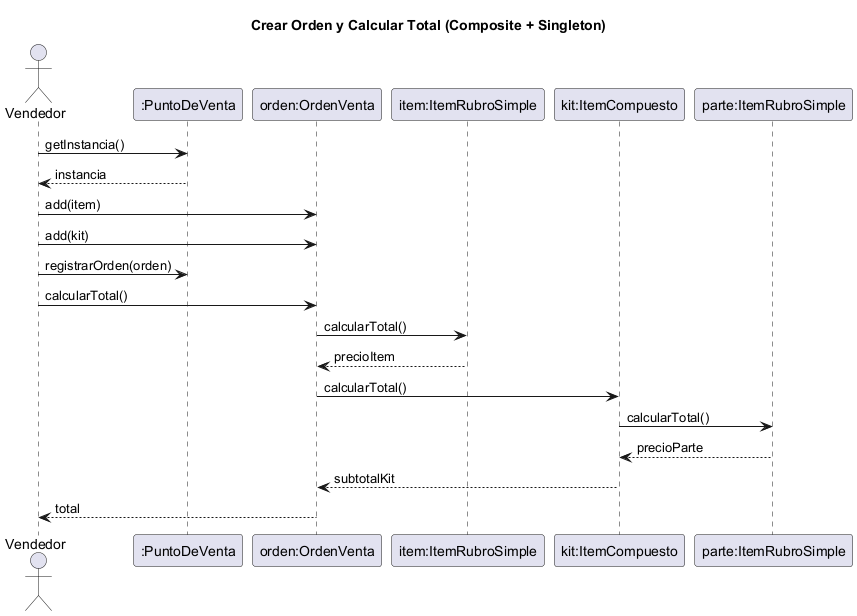
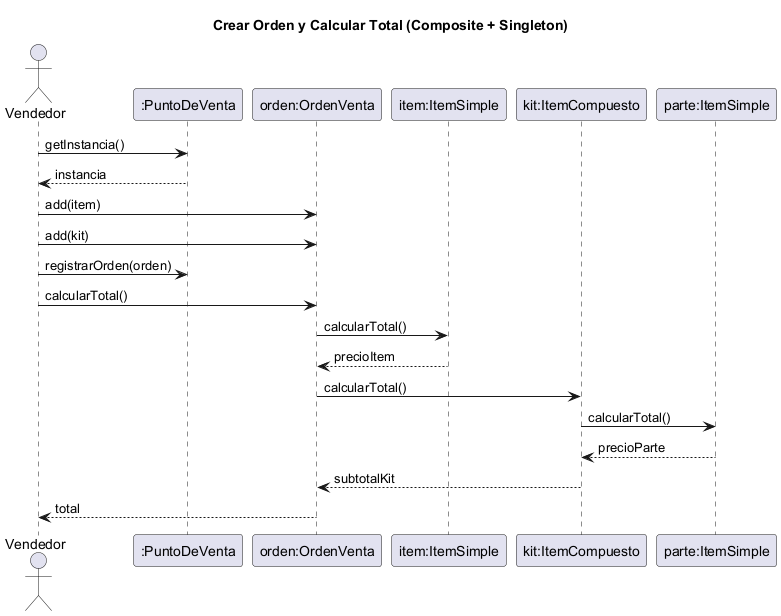
refactor(uml): simplificar Composite segun feedback (ItemRubroSimple->ItemSimple; quitar PrecioProducto, Seguro y descuento por item)

diff --git a/docs/entrega/02-patrones.md b/docs/entrega/02-patrones.md
@@ -17,10 +17,10 @@ Permite que el cliente trate de manera uniforme tanto objetos individuales como 
 la misma interfaz para ambos.
 
 **3. Motivación:** un vendedor necesita calcular el total de una orden que puede contener ítems simples
-(un producto con precio fijo, seguro opcional y descuento) y también ítems compuestos (kits que agrupan
-productos y que a su vez pueden contener sub-ítems). El código del vendedor calcula el total sin saber
-si trata con un ítem simple o con un conjunto anidado. El Composite define la interfaz común `ItemVenta`
-con `calcularTotal()`; cada nodo delega recursivamente en sus hijos.
+(un producto con su precio) y también ítems compuestos (kits que agrupan productos y que a su vez pueden
+contener sub-ítems). El código del vendedor calcula el total sin saber si trata con un ítem simple o con
+un conjunto anidado. El Composite define la interfaz común `ItemVenta` con `calcularTotal()`; cada nodo
+delega recursivamente en sus hijos.
 
 **4. Estructura:** ver `docs/uml/01-clases.puml` y la secuencia `docs/uml/02-seq-calcular-total.puml`
 → `VentaSimple-Seq-CalcularTotal.png`.
@@ -32,13 +32,11 @@ con `calcularTotal()`; cada nodo delega recursivamente en sus hijos.
 | Component | `ItemVenta` (interfaz) | Declara `calcularTotal()` y `getDescripcion()` |
 | Composite (raíz) | `OrdenVenta` | Contiene lista de `ItemVenta`; `calcularTotal()` itera y suma |
 | Composite | `ItemCompuesto` | Agrupación interna (kit); delega `calcularTotal()` a sus partes |
-| Leaf | `ItemRubroSimple` | Calcula su precio usando `PrecioProducto`, `Seguro` y descuento |
-| Helper | `PrecioProducto` | Encapsula el valor monetario del ítem |
-| Helper | `Seguro` | Calcula la prima adicional sobre el ítem |
+| Leaf | `ItemSimple` | Producto individual; tiene `nombre` y `precio`, y devuelve su precio |
 | Client | `Vendedor` / `OrdenService` | Crea la orden, agrega ítems y llama `calcularTotal()` |
 
 **6. Colaboración:** el vendedor agrega ítems simples y compuestos a la orden y llama `calcularTotal()`.
-`OrdenVenta` itera su lista; cada `ItemRubroSimple` retorna su precio y cada `ItemCompuesto` suma
+`OrdenVenta` itera su lista; cada `ItemSimple` retorna su precio y cada `ItemCompuesto` suma
 recursivamente sus partes. El total acumulado vuelve al vendedor.
 
 **Origen:** reutiliza el TP10 (diagrama de clases ya validado por el equipo).

diff --git a/docs/superpowers/specs/2026-06-27-puntoventa-design.md b/docs/superpowers/specs/2026-06-27-puntoventa-design.md
@@ -73,7 +73,7 @@ ItemVenta (interface, Composite Component)
  └─ getDescripcion() : String
    ├─ OrdenVenta        (Composite raíz)  → items : List<ItemVenta> + EstrategiaDescuento
    ├─ ItemCompuesto     (Composite)       → partes : List<ItemVenta>
-   └─ ItemRubroSimple   (Leaf)            → PrecioProducto, Seguro, descuento
+   └─ ItemSimple        (Leaf)            → nombre, precio
 
 EstrategiaDescuento (interface, Strategy)
  └─ SinDescuento | DescuentoPorcentaje | DescuentoVIP
@@ -95,7 +95,7 @@ colaboración.
 - **Motivación:** una orden puede contener productos sueltos y kits (que a su vez contienen productos).
   El vendedor calcula el total sin distinguir si un ítem es simple o compuesto.
 - **Participantes:** `ItemVenta` (Component), `OrdenVenta` (Composite raíz), `ItemCompuesto`
-  (Composite), `ItemRubroSimple` (Leaf), más helpers `PrecioProducto` y `Seguro`.
+  (Composite), `ItemSimple` (Leaf, con `nombre` y `precio`).
 - **Colaboración:** `calcularTotal()` se delega recursivamente; cada hoja devuelve su precio y cada
   compuesto suma el de sus partes.
 - **Origen:** reutiliza el TP10 (diagrama validado por el equipo).
@@ -176,7 +176,7 @@ en un ticket de caja.
 controller/   → OrdenController, ConfiguracionController
 service/      → OrdenService (orquesta Composite + Strategy + Singleton)
 domain/
-  composite/  → ItemVenta, OrdenVenta, ItemCompuesto, ItemRubroSimple, PrecioProducto, Seguro
+  composite/  → ItemVenta, OrdenVenta, ItemCompuesto, ItemSimple
   descuento/  → EstrategiaDescuento + implementaciones (Strategy)
   i18n/       → ConfiguracionI18N, IObservable, IObserver, FormatoMoneda, FormatoFecha (Observer)
   PuntoDeVenta (Singleton)